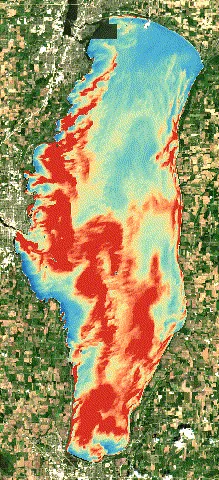
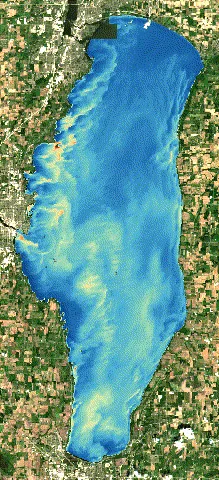
Lake Winnebago: 2019 strip re-exported on a 0-150 colour scale, with a numbered colour bar
Claude-Session: https://claude.ai/code/session_01WmAumCoMBUigKiGpCsMRuP

diff --git a/lake-winnebago.html b/lake-winnebago.html
@@ -871,6 +871,9 @@ details.nums summary { font: 500 0.8125rem/1.4 var(--mono); letter-spacing: 0.06
 .frame-note { font-size: 0.8125rem; line-height: 1.4; margin: 0; color: var(--ink-2); }
 .frame-note b { color: var(--ink); font-weight: 600; font-variant-numeric: tabular-nums; }
 .scale { display: flex; align-items: center; gap: 0.6rem; margin: 1rem 0 0; flex-wrap: wrap; }
+.scale-ticks { display: grid; grid-template-columns: minmax(0, 20rem); gap: 0.25rem; align-items: start; }
+.scale.scale-ticks i { width: 100%; }
+.scale-nums { display: flex; justify-content: space-between; }
 .scale i { display: block; width: min(16rem, 60vw); height: 10px; border: 1px solid var(--rule); background: linear-gradient(90deg, #08306b, #2171b5, #4eb3d3, #7fcdbb, #c7e9b4, #fee08b, #fc8d59, #d73027); }
 .wide { margin-top: 2.5rem; }
 .map-grid { display: grid; grid-template-columns: minmax(0, 1fr) minmax(0, 17rem); border: 1px solid var(--rule); background: var(--paper-2); }
@@ -1085,12 +1088,16 @@ details.nums summary { font: 500 0.8125rem/1.4 var(--mono); letter-spacing: 0.06
           </figure>
       </div>
       <p class="scroll-hint">Scroll sideways for all seven days.</p>
-      <div class="scale"><span class="label">0</span><i></i><span class="label">60+ mg/m³ chlorophyll-a</span></div>
+      <div class="scale scale-ticks" role="img" aria-label="Color scale for the bottom row: dark blue is 0 and red is 150 or more milligrams of chlorophyll-a per cubic metre">
+        <i></i>
+        <div class="scale-nums" aria-hidden="true"><span class="label">0</span><span class="label">50</span><span class="label">100</span><span class="label">150+</span></div>
+        <span class="label">mg/m³ chlorophyll-a</span>
+      </div>
       <div class="cs-body" style="margin-top:2rem">
         <span class="label">Reading it</span>
         <div class="prose">
-          <p>July 25 and August 9 followed west winds and July 28 a southwest wind, and on all three the line between the two sides of the lake is sharp. On July 10 the wind had been from the south, along the length of the lake, and the red band sits toward the west side. By August 27 it had swung to the southeast, and the west shore was the higher one.</p>
-          <p>The red also spreads as the summer goes on. That is the whole lake blooming, not a patch moving west: the west shore rises from 28 to 61 across these weeks while the east stays high. The color scale stops at 60, so everything above it is the same red.</p>
+          <p>July 25 and August 9 followed west winds and July 28 a southwest wind, and on all three the line between the two sides of the lake is sharp. On July 10 the wind had been from the south, along the length of the lake, and the higher band sits toward the west side. By August 27 it had swung to the southeast, and the west shore was the higher one.</p>
+          <p>The warm colors also spread as the summer goes on. That is the whole lake blooming, not a patch moving west: the west shore rises from 28 to 61 across these weeks while the east stays high. The color scale here runs to 150 mg/m³, wider than the 60 used on the map at the top of the page, because this summer went far past 60. On the narrower scale most of the lake was one flat red.</p>
           <p class="small">Animated versions: <a href="projects/lake-winnebago-blooms/media/filmstrip_2019_truecolor.gif">true color</a>, <a href="projects/lake-winnebago-blooms/media/filmstrip_2019_chlorophyll.gif">chlorophyll</a>.</p>
         </div>
       </div>

diff --git a/projects/lake-winnebago-blooms/page_body.html b/projects/lake-winnebago-blooms/page_body.html
@@ -91,6 +91,9 @@ details.nums summary { font: 500 0.8125rem/1.4 var(--mono); letter-spacing: 0.06
 .frame-note { font-size: 0.8125rem; line-height: 1.4; margin: 0; color: var(--ink-2); }
 .frame-note b { color: var(--ink); font-weight: 600; font-variant-numeric: tabular-nums; }
 .scale { display: flex; align-items: center; gap: 0.6rem; margin: 1rem 0 0; flex-wrap: wrap; }
+.scale-ticks { display: grid; grid-template-columns: minmax(0, 20rem); gap: 0.25rem; align-items: start; }
+.scale.scale-ticks i { width: 100%; }
+.scale-nums { display: flex; justify-content: space-between; }
 .scale i { display: block; width: min(16rem, 60vw); height: 10px; border: 1px solid var(--rule); background: linear-gradient(90deg, #08306b, #2171b5, #4eb3d3, #7fcdbb, #c7e9b4, #fee08b, #fc8d59, #d73027); }
 .wide { margin-top: 2.5rem; }
 .map-grid { display: grid; grid-template-columns: minmax(0, 1fr) minmax(0, 17rem); border: 1px solid var(--rule); background: var(--paper-2); }
@@ -305,12 +308,16 @@ details.nums summary { font: 500 0.8125rem/1.4 var(--mono); letter-spacing: 0.06
           </figure>
       </div>
       <p class="scroll-hint">Scroll sideways for all seven days.</p>
-      <div class="scale"><span class="label">0</span><i></i><span class="label">60+ mg/m³ chlorophyll-a</span></div>
+      <div class="scale scale-ticks" role="img" aria-label="Color scale for the bottom row: dark blue is 0 and red is 150 or more milligrams of chlorophyll-a per cubic metre">
+        <i></i>
+        <div class="scale-nums" aria-hidden="true"><span class="label">0</span><span class="label">50</span><span class="label">100</span><span class="label">150+</span></div>
+        <span class="label">mg/m³ chlorophyll-a</span>
+      </div>
       <div class="cs-body" style="margin-top:2rem">
         <span class="label">Reading it</span>
         <div class="prose">
-          <p>July 25 and August 9 followed west winds and July 28 a southwest wind, and on all three the line between the two sides of the lake is sharp. On July 10 the wind had been from the south, along the length of the lake, and the red band sits toward the west side. By August 27 it had swung to the southeast, and the west shore was the higher one.</p>
-          <p>The red also spreads as the summer goes on. That is the whole lake blooming, not a patch moving west: the west shore rises from 28 to 61 across these weeks while the east stays high. The color scale stops at 60, so everything above it is the same red.</p>
+          <p>July 25 and August 9 followed west winds and July 28 a southwest wind, and on all three the line between the two sides of the lake is sharp. On July 10 the wind had been from the south, along the length of the lake, and the higher band sits toward the west side. By August 27 it had swung to the southeast, and the west shore was the higher one.</p>
+          <p>The warm colors also spread as the summer goes on. That is the whole lake blooming, not a patch moving west: the west shore rises from 28 to 61 across these weeks while the east stays high. The color scale here runs to 150 mg/m³, wider than the 60 used on the map at the top of the page, because this summer went far past 60. On the narrower scale most of the lake was one flat red.</p>
           <p class="small">Animated versions: <a href="projects/lake-winnebago-blooms/media/filmstrip_2019_truecolor.gif">true color</a>, <a href="projects/lake-winnebago-blooms/media/filmstrip_2019_chlorophyll.gif">chlorophyll</a>.</p>
         </div>
       </div>

diff --git a/projects/lake-winnebago-blooms/build_page.py b/projects/lake-winnebago-blooms/build_page.py
@@ -385,6 +385,9 @@ details.nums summary {{ font: 500 0.8125rem/1.4 var(--mono); letter-spacing: 0.0
 .frame-note {{ font-size: 0.8125rem; line-height: 1.4; margin: 0; color: var(--ink-2); }}
 .frame-note b {{ color: var(--ink); font-weight: 600; font-variant-numeric: tabular-nums; }}
 .scale {{ display: flex; align-items: center; gap: 0.6rem; margin: 1rem 0 0; flex-wrap: wrap; }}
+.scale-ticks {{ display: grid; grid-template-columns: minmax(0, 20rem); gap: 0.25rem; align-items: start; }}
+.scale.scale-ticks i {{ width: 100%; }}
+.scale-nums {{ display: flex; justify-content: space-between; }}
 .scale i {{ display: block; width: min(16rem, 60vw); height: 10px; border: 1px solid var(--rule); background: linear-gradient(90deg, #08306b, #2171b5, #4eb3d3, #7fcdbb, #c7e9b4, #fee08b, #fc8d59, #d73027); }}
 .wide {{ margin-top: 2.5rem; }}
 .map-grid {{ display: grid; grid-template-columns: minmax(0, 1fr) minmax(0, 17rem); border: 1px solid var(--rule); background: var(--paper-2); }}
@@ -551,12 +554,16 @@ details.nums summary {{ font: 500 0.8125rem/1.4 var(--mono); letter-spacing: 0.0
           {strip19()}
       </div>
       <p class="scroll-hint">Scroll sideways for all seven days.</p>
-      <div class="scale"><span class="label">0</span><i></i><span class="label">60+ mg/m³ chlorophyll-a</span></div>
+      <div class="scale scale-ticks" role="img" aria-label="Color scale for the bottom row: dark blue is 0 and red is 150 or more milligrams of chlorophyll-a per cubic metre">
+        <i></i>
+        <div class="scale-nums" aria-hidden="true"><span class="label">0</span><span class="label">50</span><span class="label">100</span><span class="label">150+</span></div>
+        <span class="label">mg/m³ chlorophyll-a</span>
+      </div>
       <div class="cs-body" style="margin-top:2rem">
         <span class="label">Reading it</span>
         <div class="prose">
-          <p>July 25 and August 9 followed west winds and July 28 a southwest wind, and on all three the line between the two sides of the lake is sharp. On July 10 the wind had been from the south, along the length of the lake, and the red band sits toward the west side. By August 27 it had swung to the southeast, and the west shore was the higher one.</p>
-          <p>The red also spreads as the summer goes on. That is the whole lake blooming, not a patch moving west: the west shore rises from {D["2019-07-25"]["chl_west"]:.0f} to {D["2019-08-19"]["chl_west"]:.0f} across these weeks while the east stays high. The color scale stops at 60, so everything above it is the same red.</p>
+          <p>July 25 and August 9 followed west winds and July 28 a southwest wind, and on all three the line between the two sides of the lake is sharp. On July 10 the wind had been from the south, along the length of the lake, and the higher band sits toward the west side. By August 27 it had swung to the southeast, and the west shore was the higher one.</p>
+          <p>The warm colors also spread as the summer goes on. That is the whole lake blooming, not a patch moving west: the west shore rises from {D["2019-07-25"]["chl_west"]:.0f} to {D["2019-08-19"]["chl_west"]:.0f} across these weeks while the east stays high. The color scale here runs to 150 mg/m³, wider than the 60 used on the map at the top of the page, because this summer went far past 60. On the narrower scale most of the lake was one flat red.</p>
           <p class="small">Animated versions: <a href="projects/lake-winnebago-blooms/media/filmstrip_2019_truecolor.gif">true color</a>, <a href="projects/lake-winnebago-blooms/media/filmstrip_2019_chlorophyll.gif">chlorophyll</a>.</p>
         </div>
       </div>
